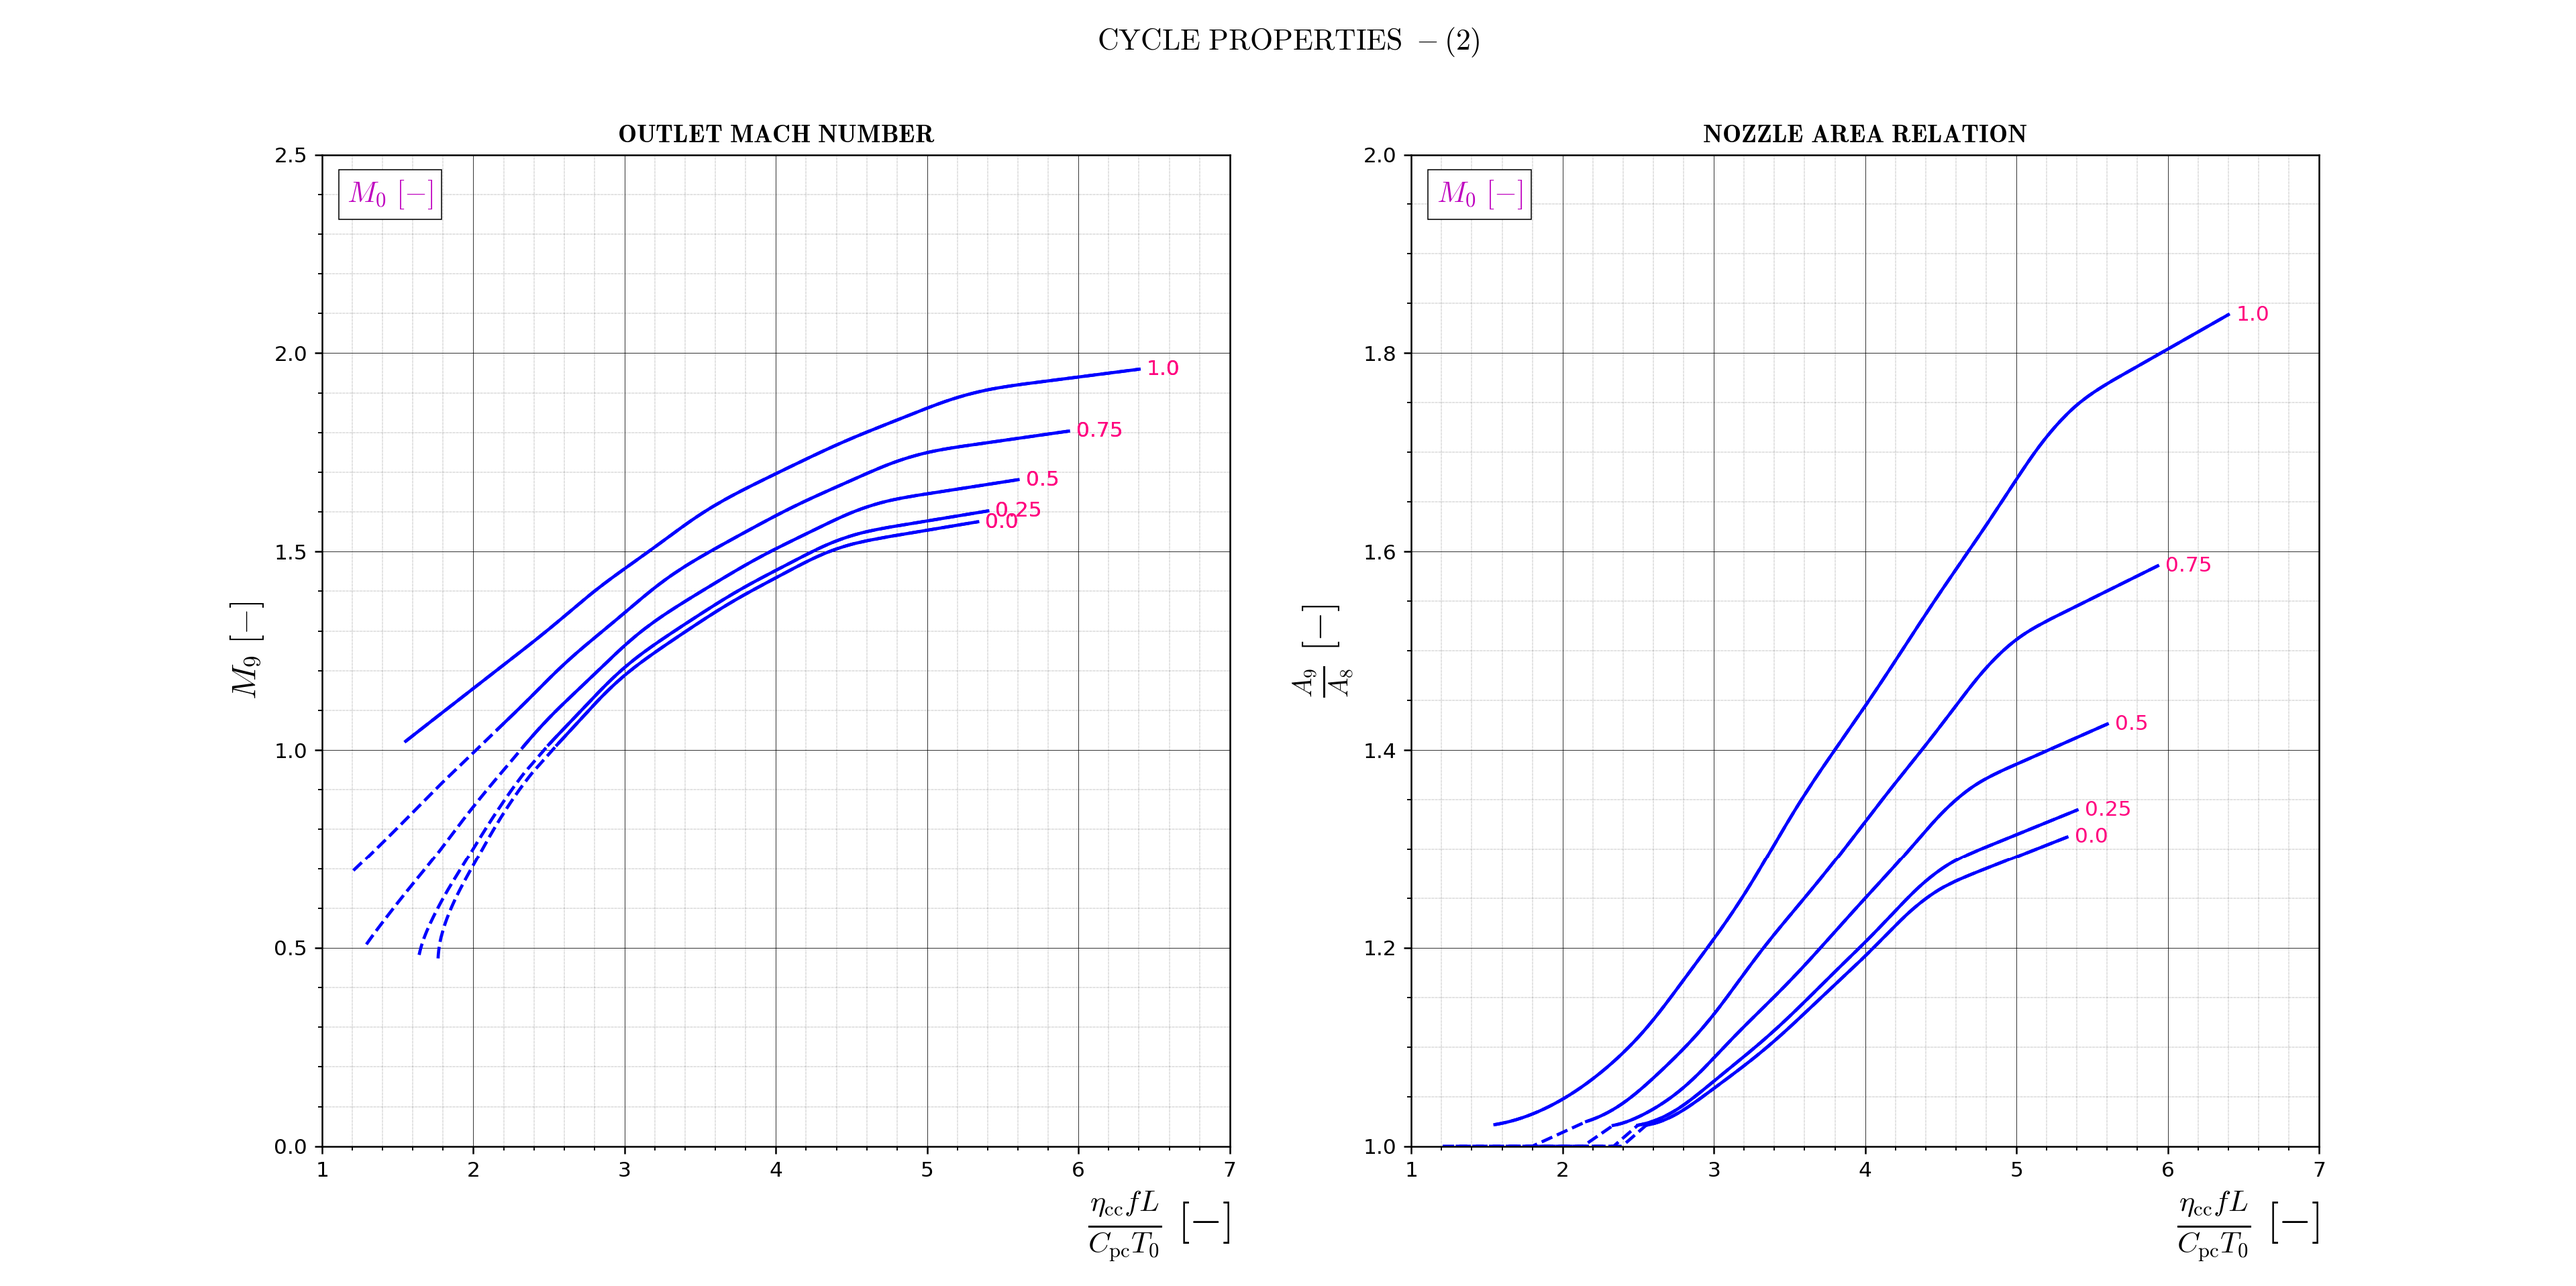
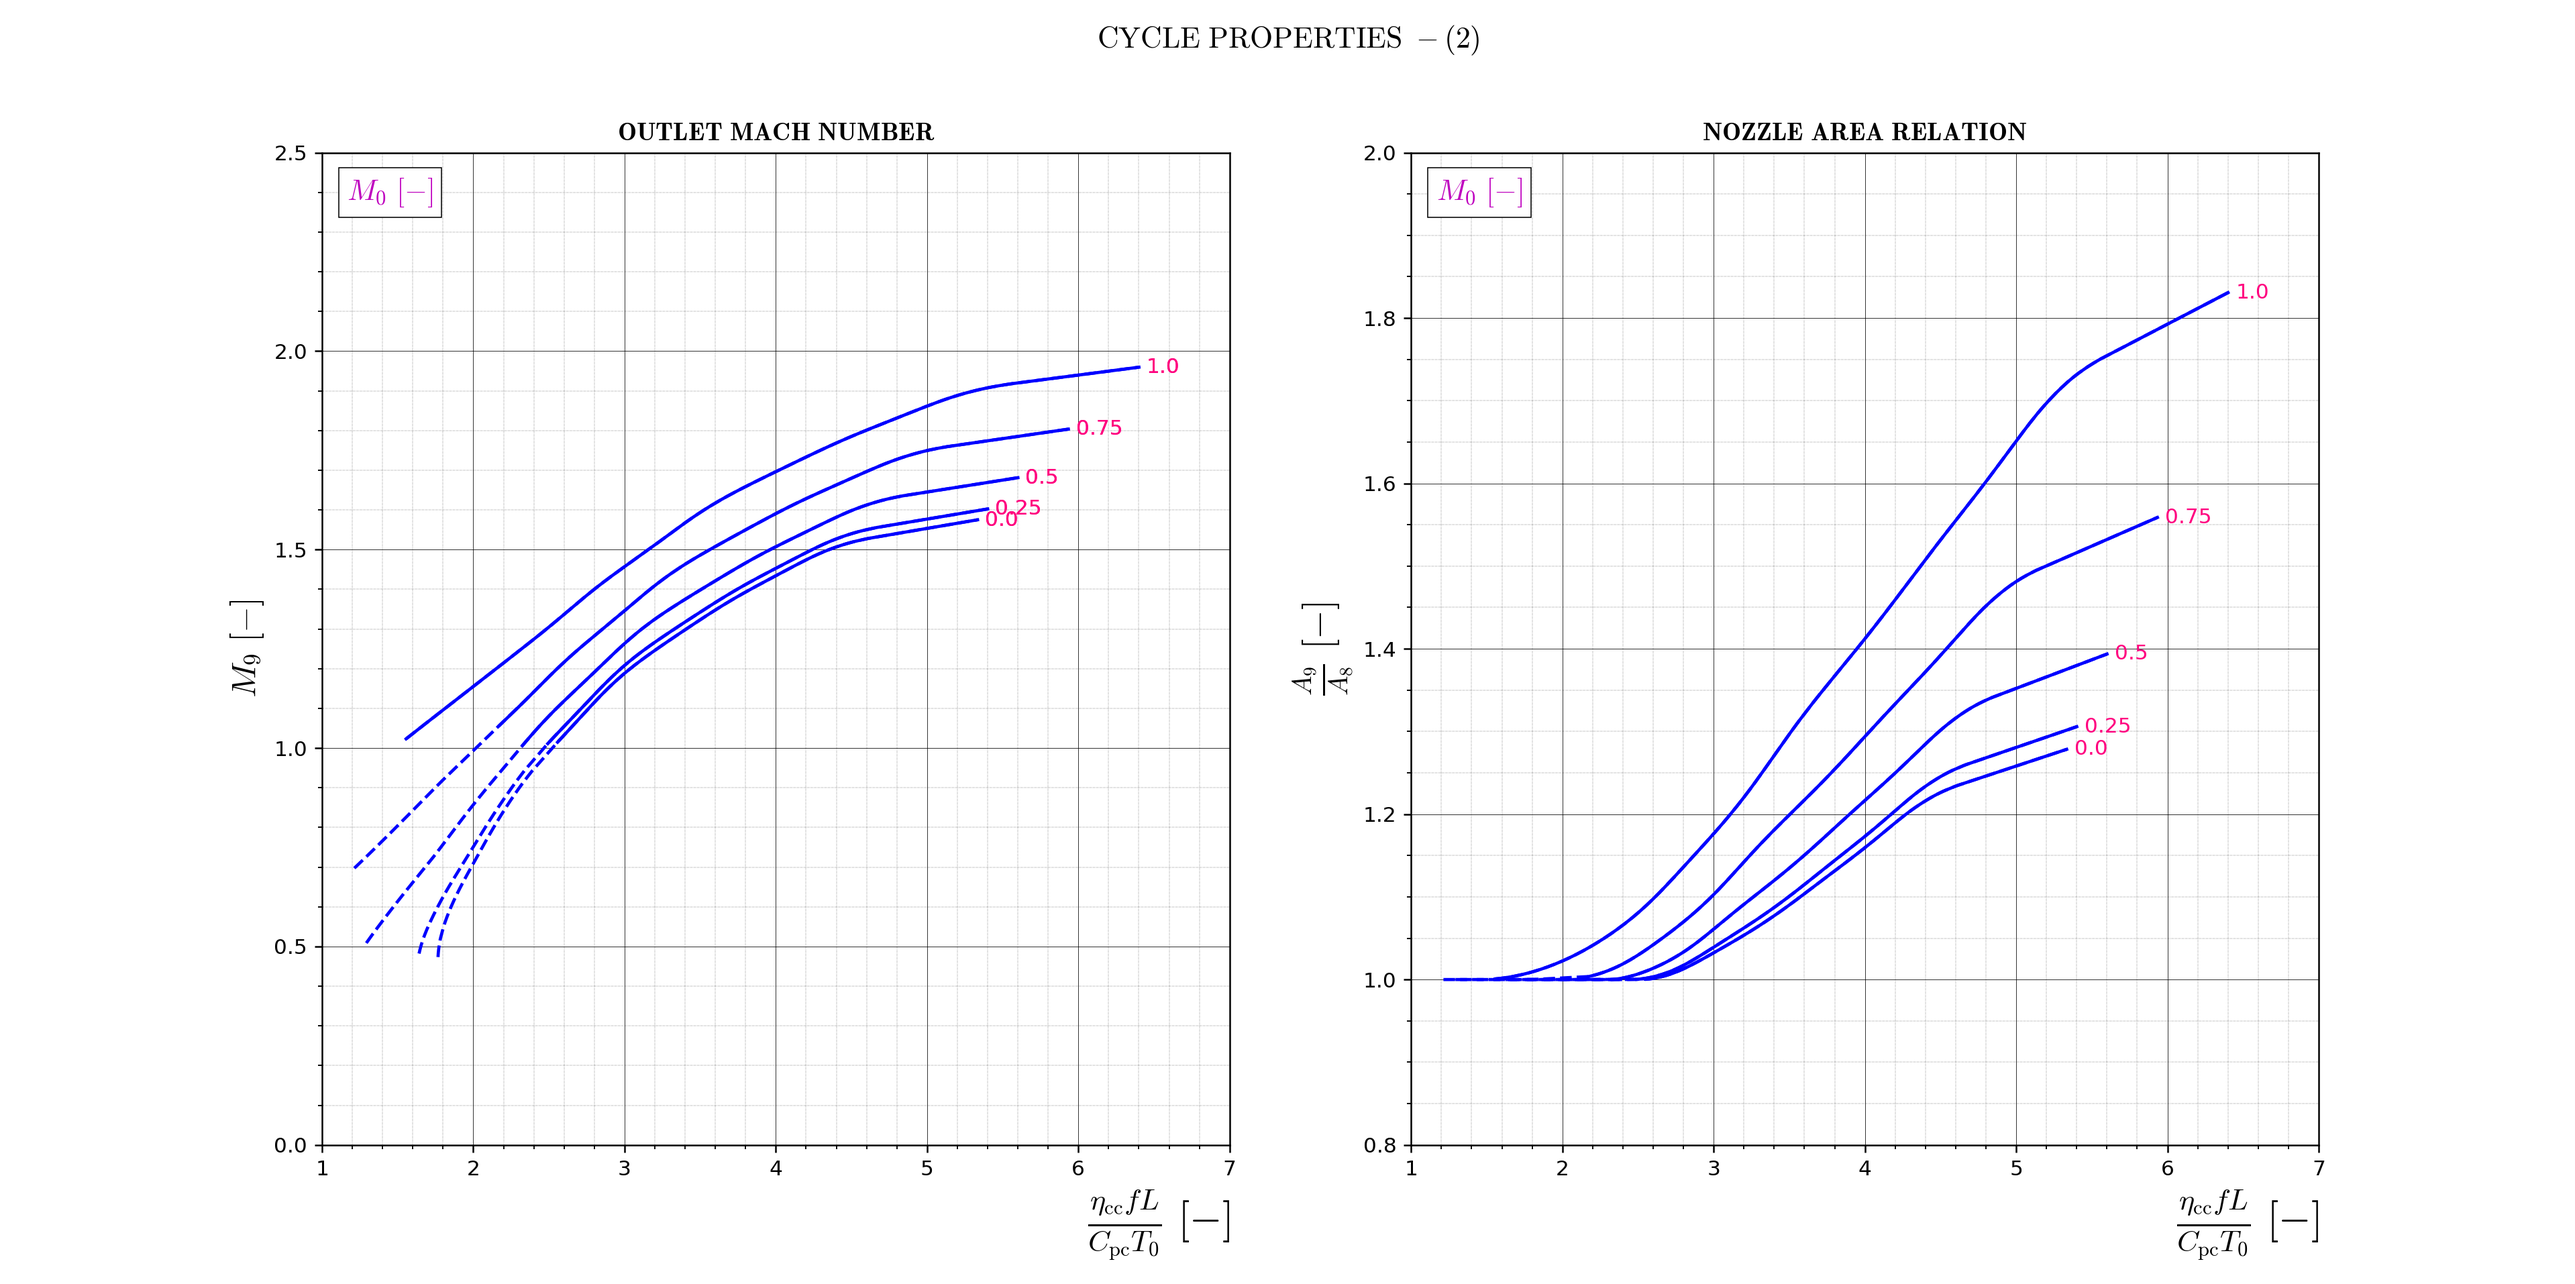
XD3

diff --git a/Characterization.py b/Characterization.py
@@ -715,7 +715,7 @@ elif nozzle_type == "conv-div":
     plt2.set_xlim(1,7)
 
     plt1.set_ylim(0,2.5)
-    plt2.set_ylim(1,2)
+    plt2.set_ylim(0.8,2)
 
     plt1.set_xlabel(r"$ \frac{\eta_{\rm cc}fL}{C_{\rm pc}T_{\rm 0}} \ [-]$",loc='right',fontsize=20)
     plt1.set_ylabel(r"$M_{9} \ [-]$",loc='center',fontsize=16)
